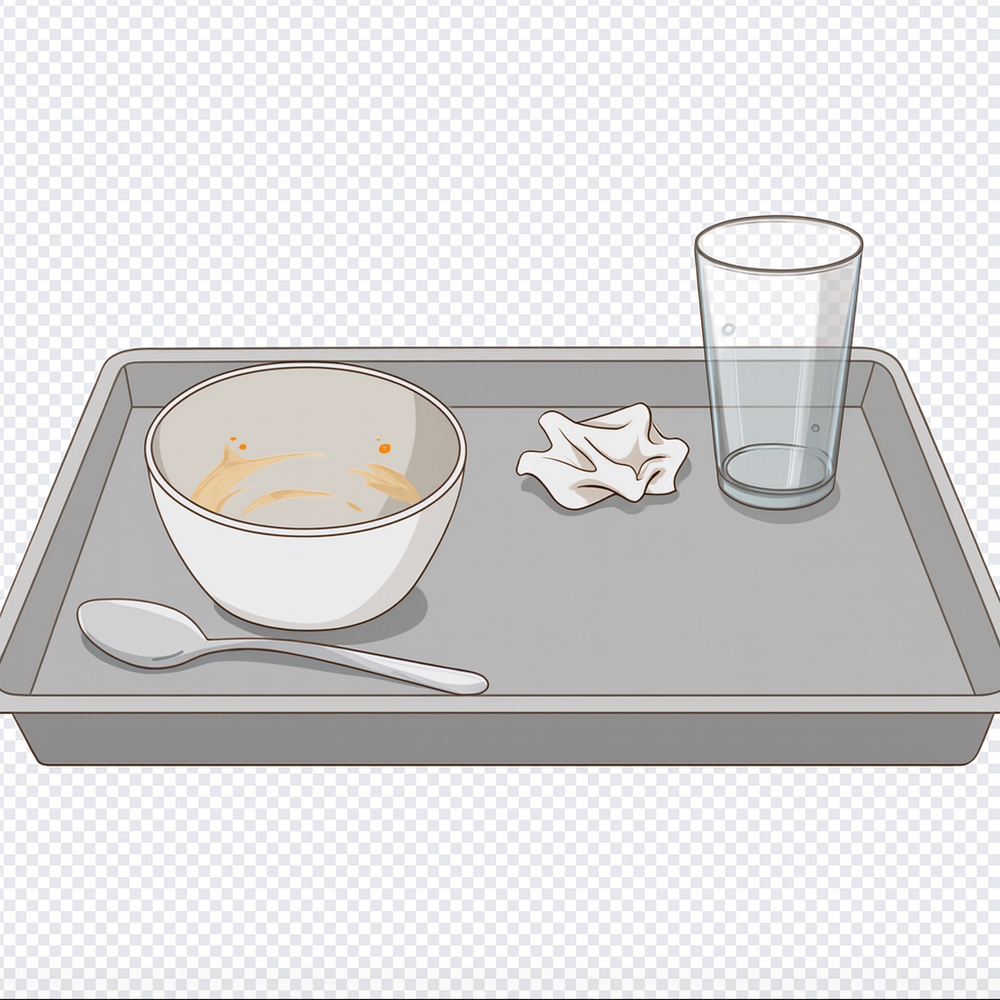
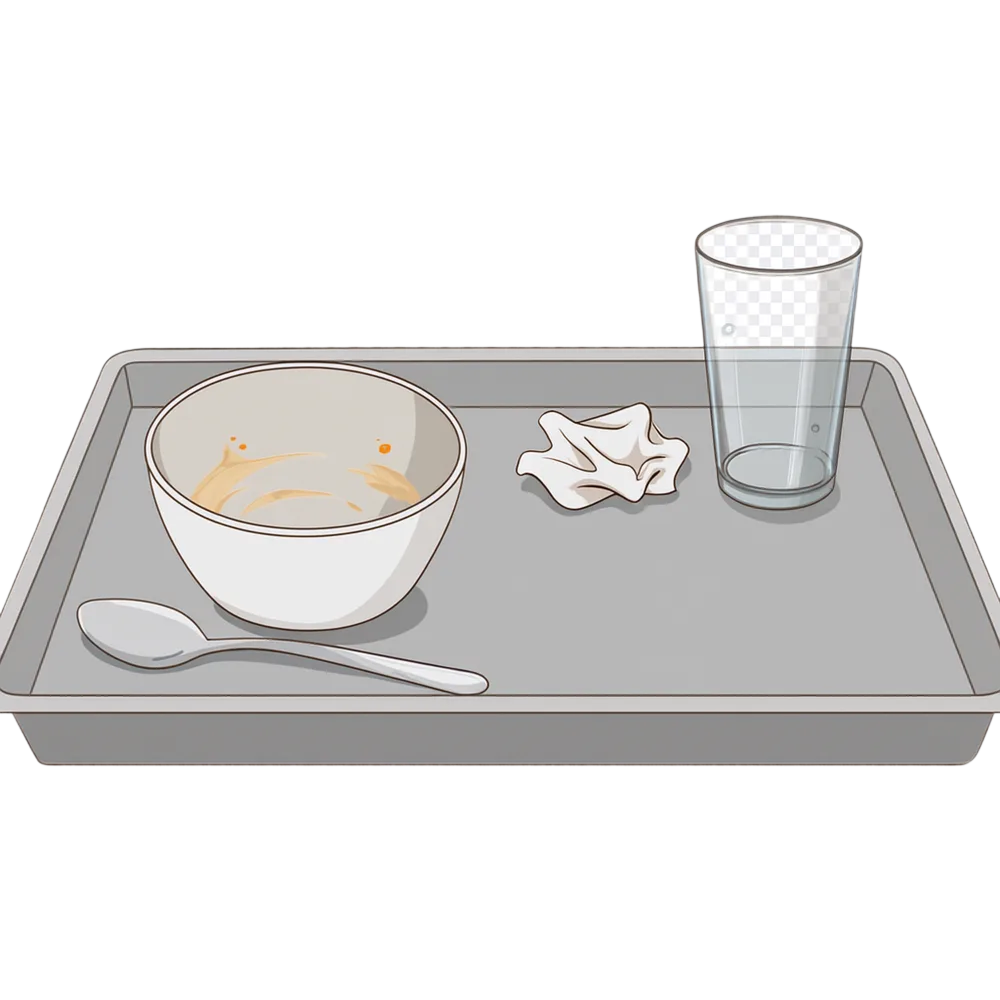
changes

Changed region(s): [[0.0, 0.0, 1.0, 0.62], [0.0, 0.713, 1.0, 1.0]]

diff --git a/src/pages/Board/NeedBoard.jsx b/src/pages/Board/NeedBoard.jsx
@@ -298,9 +298,9 @@ const NeedBoard = () => {
                     style={{ cursor: "pointer" }}
                     key={index}
                   >
-                    <div className="dashboard-cards rounded-2xl bg-white text-center h-full py-2 px-3">
+                    <div className="dashboard-cards rounded-2xl bg-white text-center py-2 px-3 relative">
                       {item.name && !item.nameEs && (
-                        <div className="flex justify-end">
+                        <div className="flex justify-end absolute top-4 right-4">
                           <span style={{ color: "blue" }}>
                             <MdEdit
                               onClick={() => {
@@ -349,7 +349,7 @@ const NeedBoard = () => {
                 onClick={() => {
                   navigate("/board-upload");
                 }}
-                className="bg-blue-600 text-white px-6 py-2 rounded-2xl shadow-lg hover:bg-blue-700"
+                className="thm-btn"
               >
                 {selectedLanguage === "Spanish"
                   ? "+ Agregar icono"

diff --git a/src/pages/Howoften/Howoften.jsx b/src/pages/Howoften/Howoften.jsx
@@ -129,7 +129,7 @@ function Howoften({ monthName, isSelected }) {
       viewBox="0 0 24 24"
       fill="none"
       stroke={iconColor}
-      strokeWidth="2"
+      strokeWidth="1"
       strokeLinecap="round"
       strokeLinejoin="round"
       className="lucide lucide-calendar-days"

diff --git a/src/pages/Introduction/page.jsx b/src/pages/Introduction/page.jsx
@@ -115,7 +115,7 @@ export default function Introduction() {
           />
           <div className="main-wrapper home-wrapper">
             <div className="Intro_box">
-              <div className="min-h-screen px-4">
+              <div className="min-h-screen px-4 py-4">
                 <img src="/newlogo_4.png" width={400} className="m-auto" />
                 <div className="w-full m-auto mt-3 px-12">
                   {/* Name */}

diff --git a/src/pages/Overall/Feel.jsx b/src/pages/Overall/Feel.jsx
@@ -81,7 +81,7 @@ const Feel = () => {
             }
           />
           <div className="main-wrapper home-wrapper ">
-            <div className="dashboard-wrapper px-4 py-1.5 feel-list-main">
+            <div className="dashboard-wrapper px-4 py-1.5 pt-4 feel-list-main">
               <ul className="flex flex-col gap-10 feel-list relative before:content-[''] before:absolute before:left-[50px] before:top-0 before:h-full before:w-[27px] before:bg-[linear-gradient(180deg,_#7ebe01_0%,_#fbcc00_25%,_#fbcc00_37.5%,_#f78d11_50%,_#f78d11_75%,_#f36218_87.5%,_#e92f1a_100%)]">
                 {emotionsicons.map((item) => (
                   <li